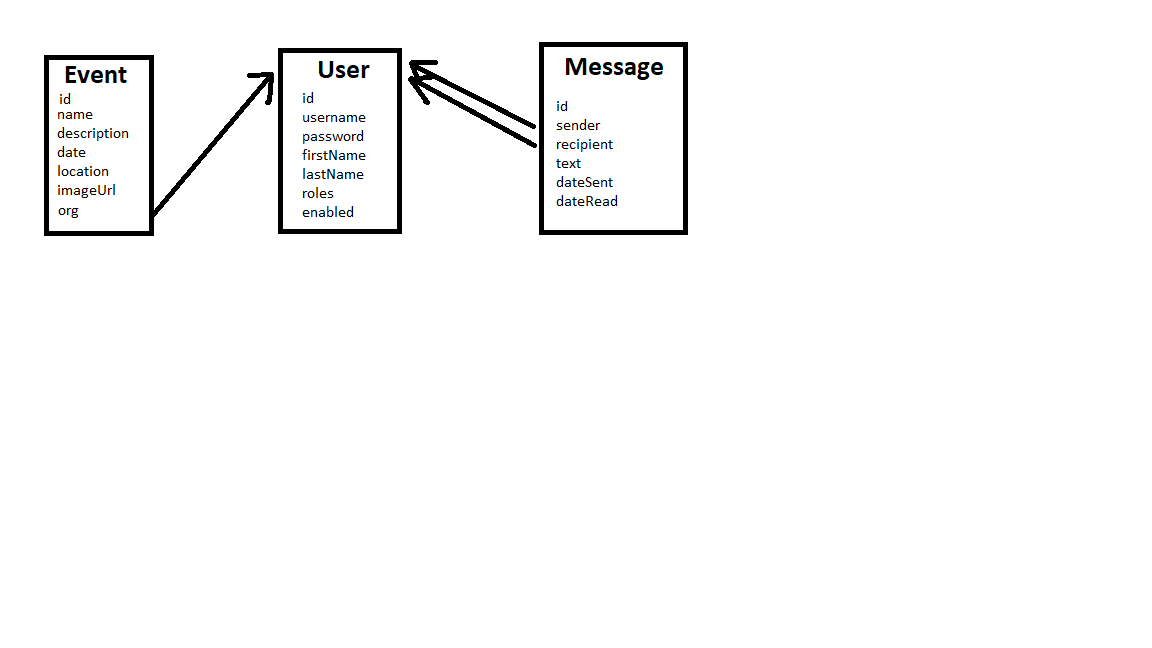
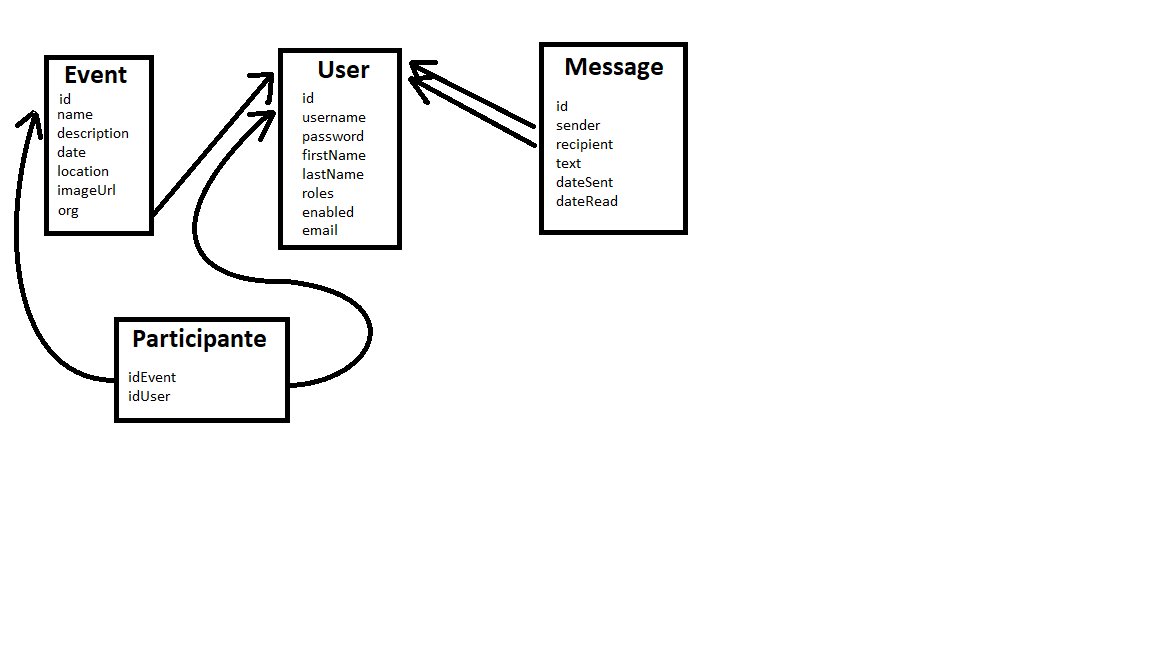
xx

diff --git a/plantilla/src/main/java/es/ucm/fdi/iw/model/User.java b/plantilla/src/main/java/es/ucm/fdi/iw/model/User.java
@@ -18,26 +18,25 @@ import java.util.List;
 @Data
 @NoArgsConstructor
 @NamedQueries({
-        @NamedQuery(name="User.byUsername",
-                query="SELECT u FROM User u "
-                        + "WHERE u.username = :username AND u.enabled = TRUE"),
-        @NamedQuery(name="User.hasUsername",
-                query="SELECT COUNT(u) "
-                        + "FROM User u "
-                        + "WHERE u.username = :username")
+        @NamedQuery(name = "User.byUsername", query = "SELECT u FROM User u "
+                + "WHERE u.username = :username AND u.enabled = TRUE"),
+        @NamedQuery(name = "User.hasUsername", query = "SELECT COUNT(u) "
+                + "FROM User u "
+                + "WHERE u.username = :username")
 })
-@Table(name="IWUser")
+@Table(name = "IWUser")
 public class User implements Transferable<User.Transfer> {
 
     public enum Role {
-        USER,			// normal users 
-        ADMIN,          // admin users
+        ADMIN, // admin users
+        ORG, // org users
+        USER, // normal users
     }
 
     @Id
     @GeneratedValue(strategy = GenerationType.SEQUENCE, generator = "gen")
     @SequenceGenerator(name = "gen", sequenceName = "gen")
-	private long id;
+    private long id;
 
     @Column(nullable = false, unique = true)
     private String username;
@@ -46,19 +45,25 @@ public class User implements Transferable<User.Transfer> {
 
     private String firstName;
     private String lastName;
+    private String email;
 
     private boolean enabled;
     private String roles; // split by ',' to separate roles
 
-	@OneToMany
-	@JoinColumn(name = "sender_id")
-	private List<Message> sent = new ArrayList<>();
-	@OneToMany
-	@JoinColumn(name = "recipient_id")	
-	private List<Message> received = new ArrayList<>();		
+    @OneToMany
+    @JoinColumn(name = "user_id")
+    private List<User> friends = new ArrayList<>();
+
+    @OneToMany
+    @JoinColumn(name = "sender_id")
+    private List<Message> sent = new ArrayList<>();
+    @OneToMany
+    @JoinColumn(name = "recipient_id")
+    private List<Message> received = new ArrayList<>();
 
     /**
      * Checks whether this user has a given role.
+     * 
      * @param role to check
      * @return true iff this user has that role.
      */
@@ -70,20 +75,19 @@ public class User implements Transferable<User.Transfer> {
     @Getter
     @AllArgsConstructor
     public static class Transfer {
-		private long id;
+        private long id;
         private String username;
-		private int totalReceived;
-		private int totalSent;
+        private int totalReceived;
+        private int totalSent;
     }
 
-	@Override
+    @Override
     public Transfer toTransfer() {
-		return new Transfer(id,	username, received.size(), sent.size());
-	}
-	
-	@Override
-	public String toString() {
-		return toTransfer().toString();
-	}
-}
+        return new Transfer(id, username, received.size(), sent.size());
+    }
 
+    @Override
+    public String toString() {
+        return toTransfer().toString();
+    }
+}
